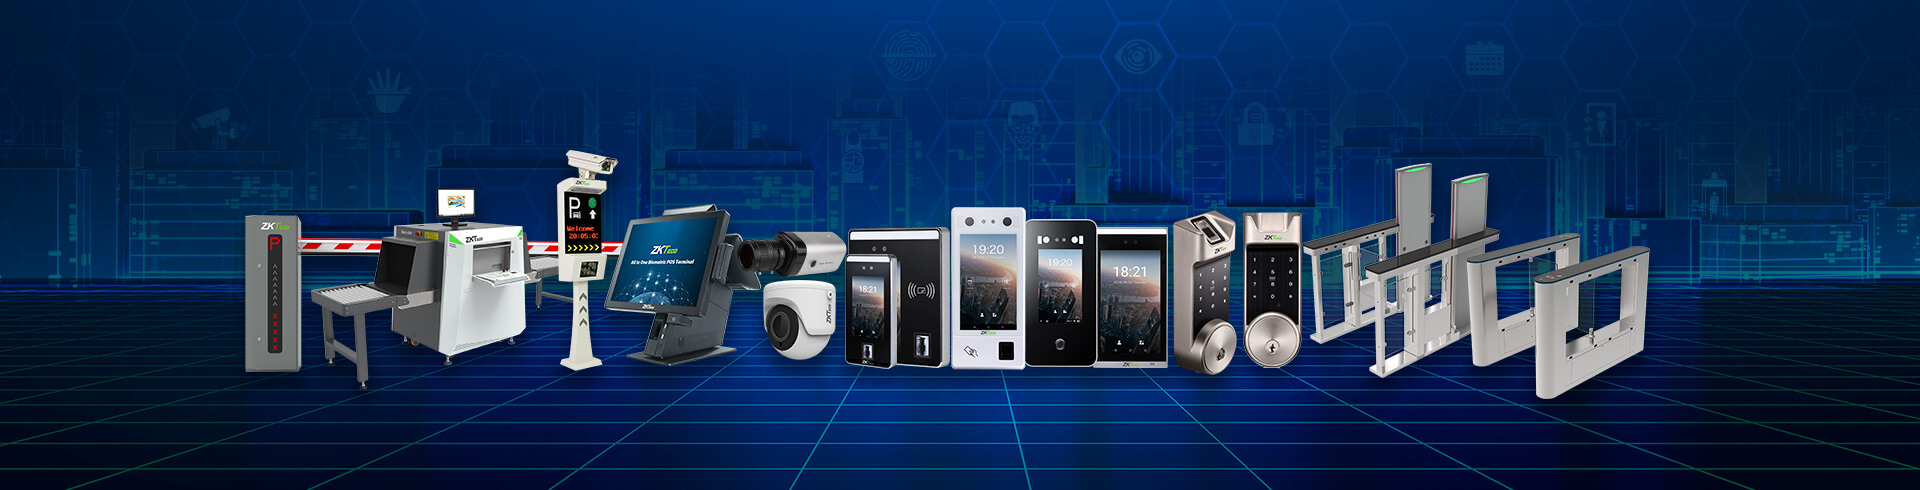
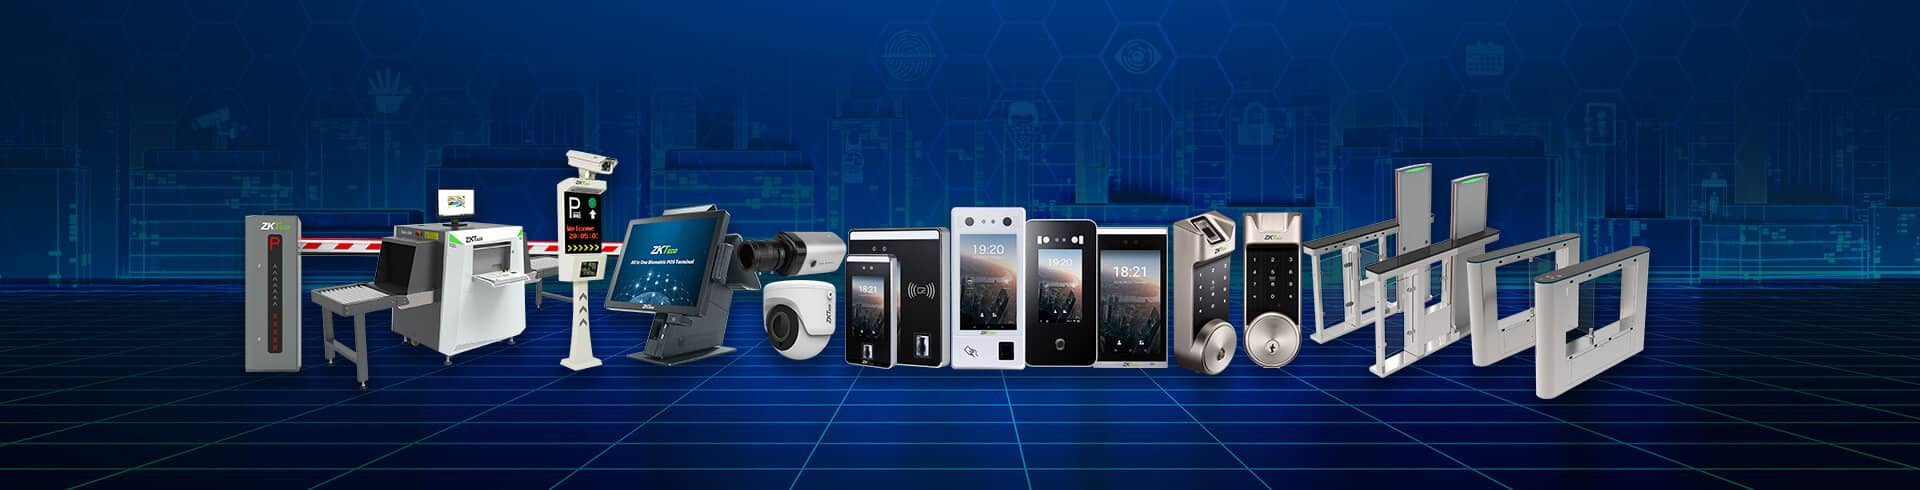
Compress images

diff --git a/src/pages/Index.vue b/src/pages/Index.vue
@@ -386,7 +386,7 @@ export default {
       return this.$page.allStrapiHomePages.edges[0].node.partners;
     },
   },
-  created() {
+  mounted() {
     var dayjs = require('dayjs')
     const areYouSubscribed = this.hasInStorage();
     const hoursCreated = areYouSubscribed
@@ -394,13 +394,13 @@ export default {
       : null;
 
     if (areYouSubscribed) {
-      if (hoursCreated < 5) {
+      if (hoursCreated < 7) {
         return;
       } else {
         this.clearInStorage();
       }
     } else {
-      this.timer = setInterval(this.fetchEventsList, 1000);
+      this.timer = setInterval(this.fetchEventsList, 5000);
     }
   },
   methods: {
